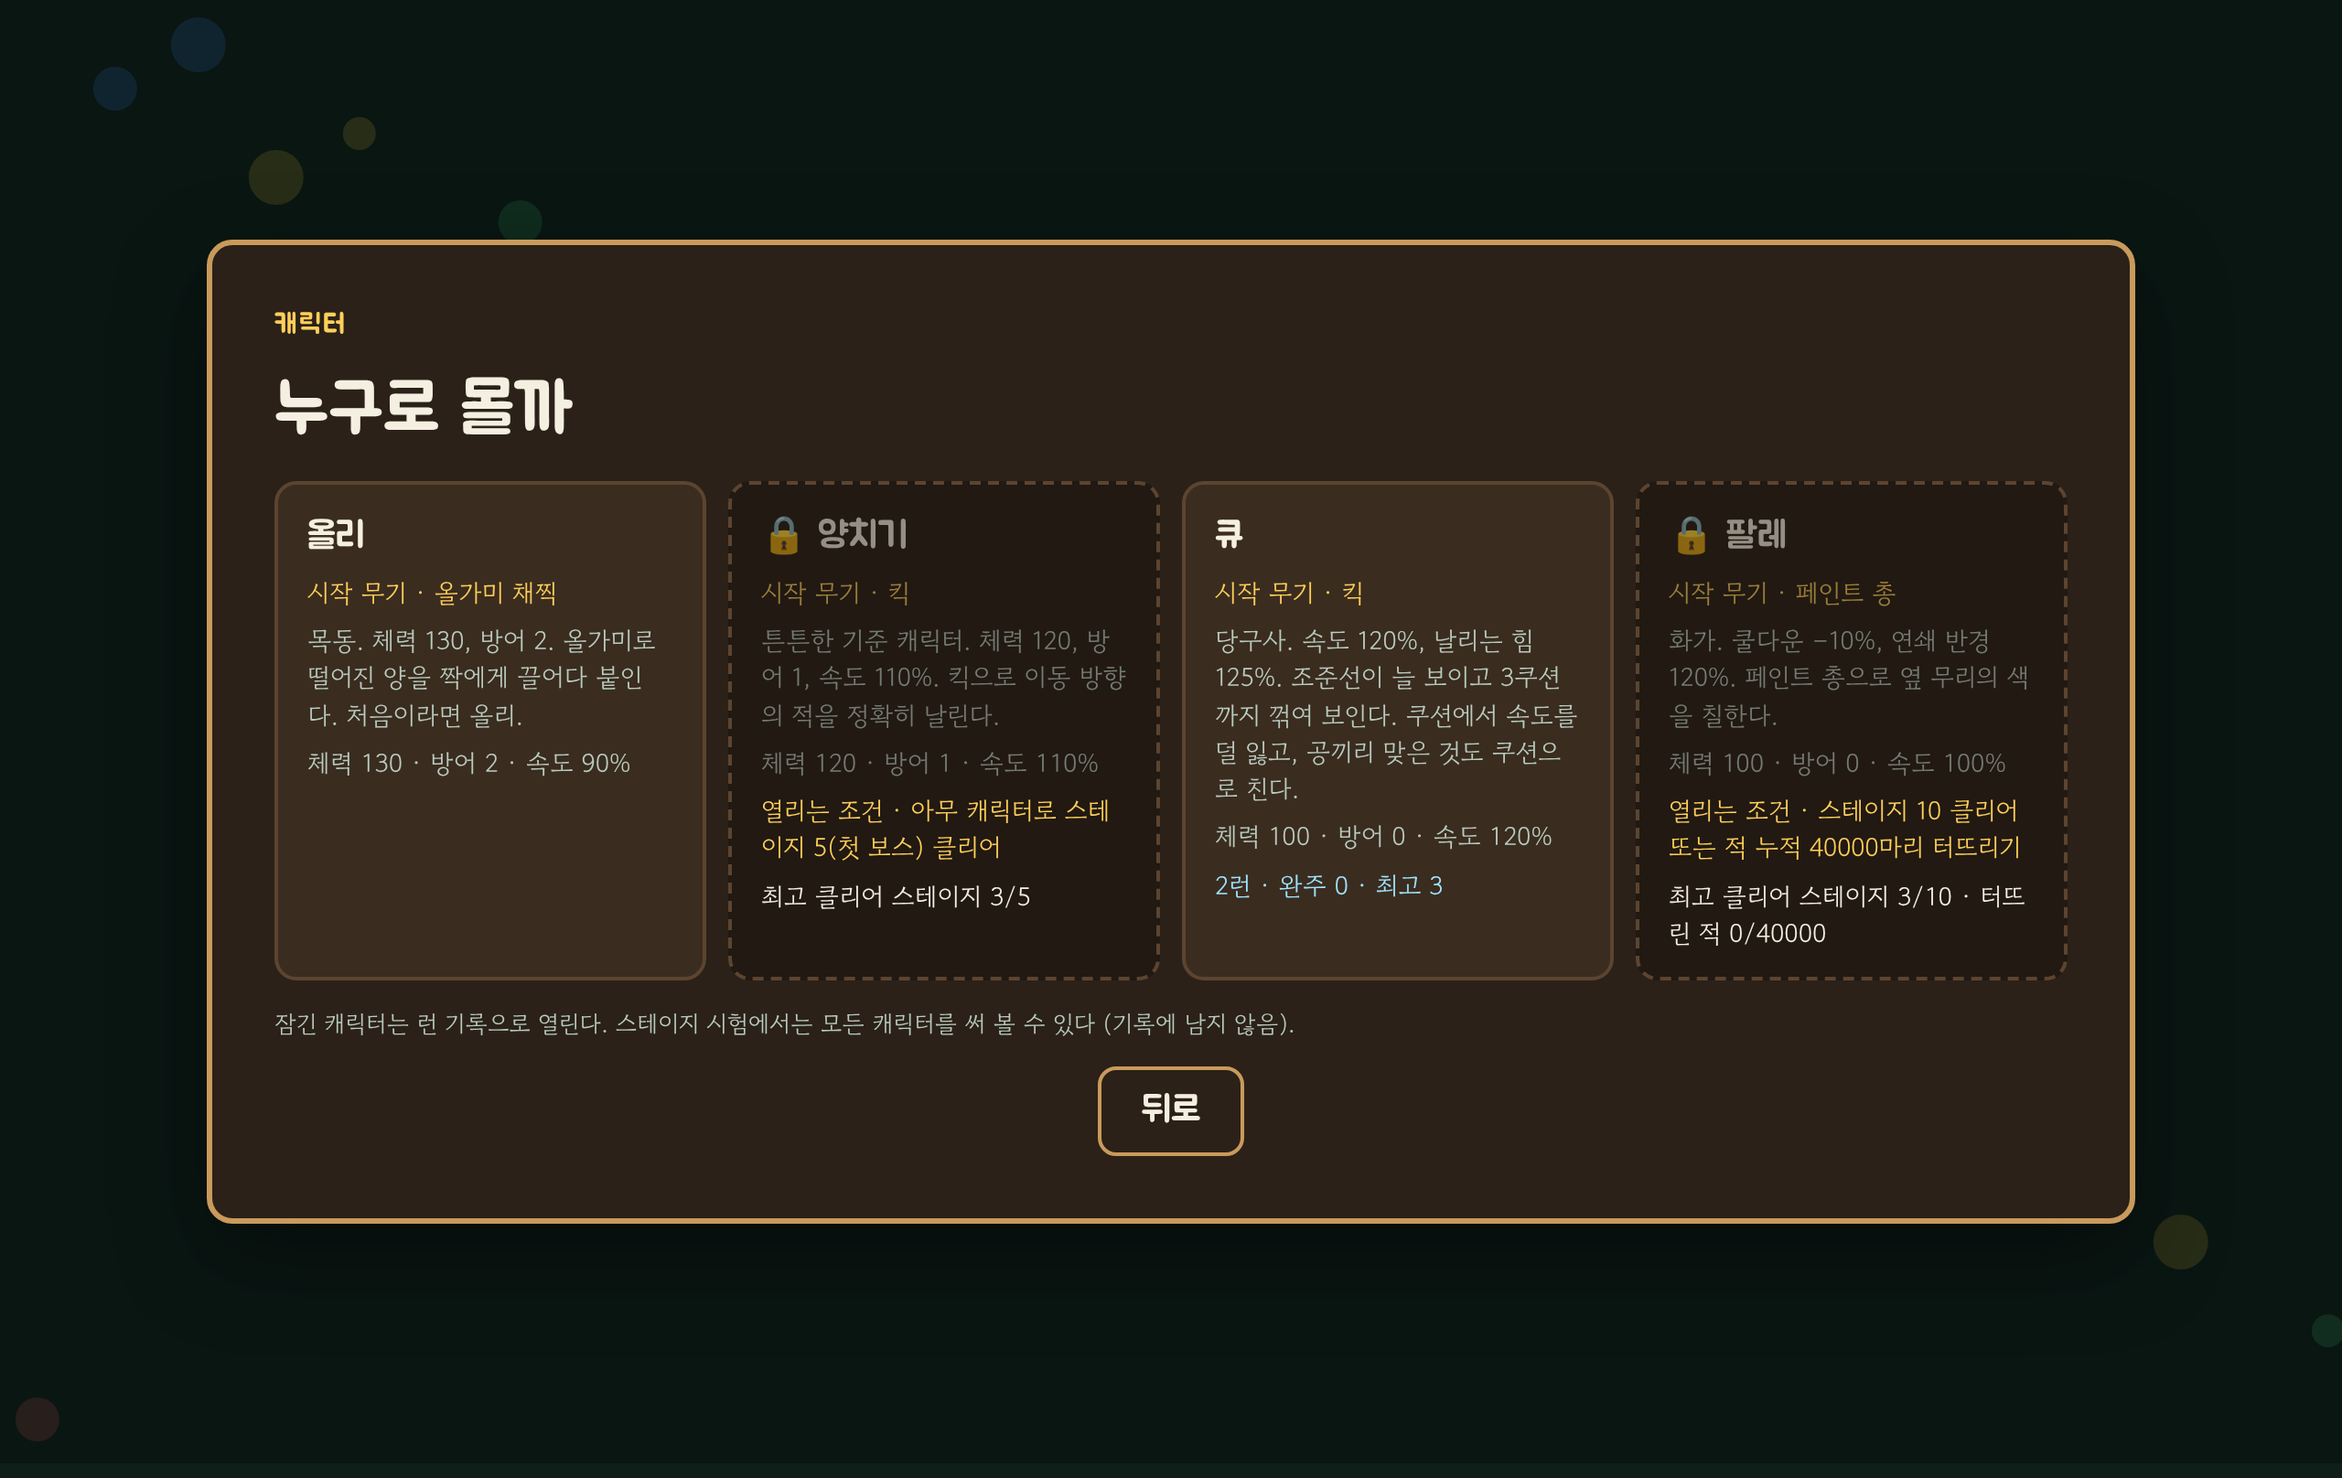
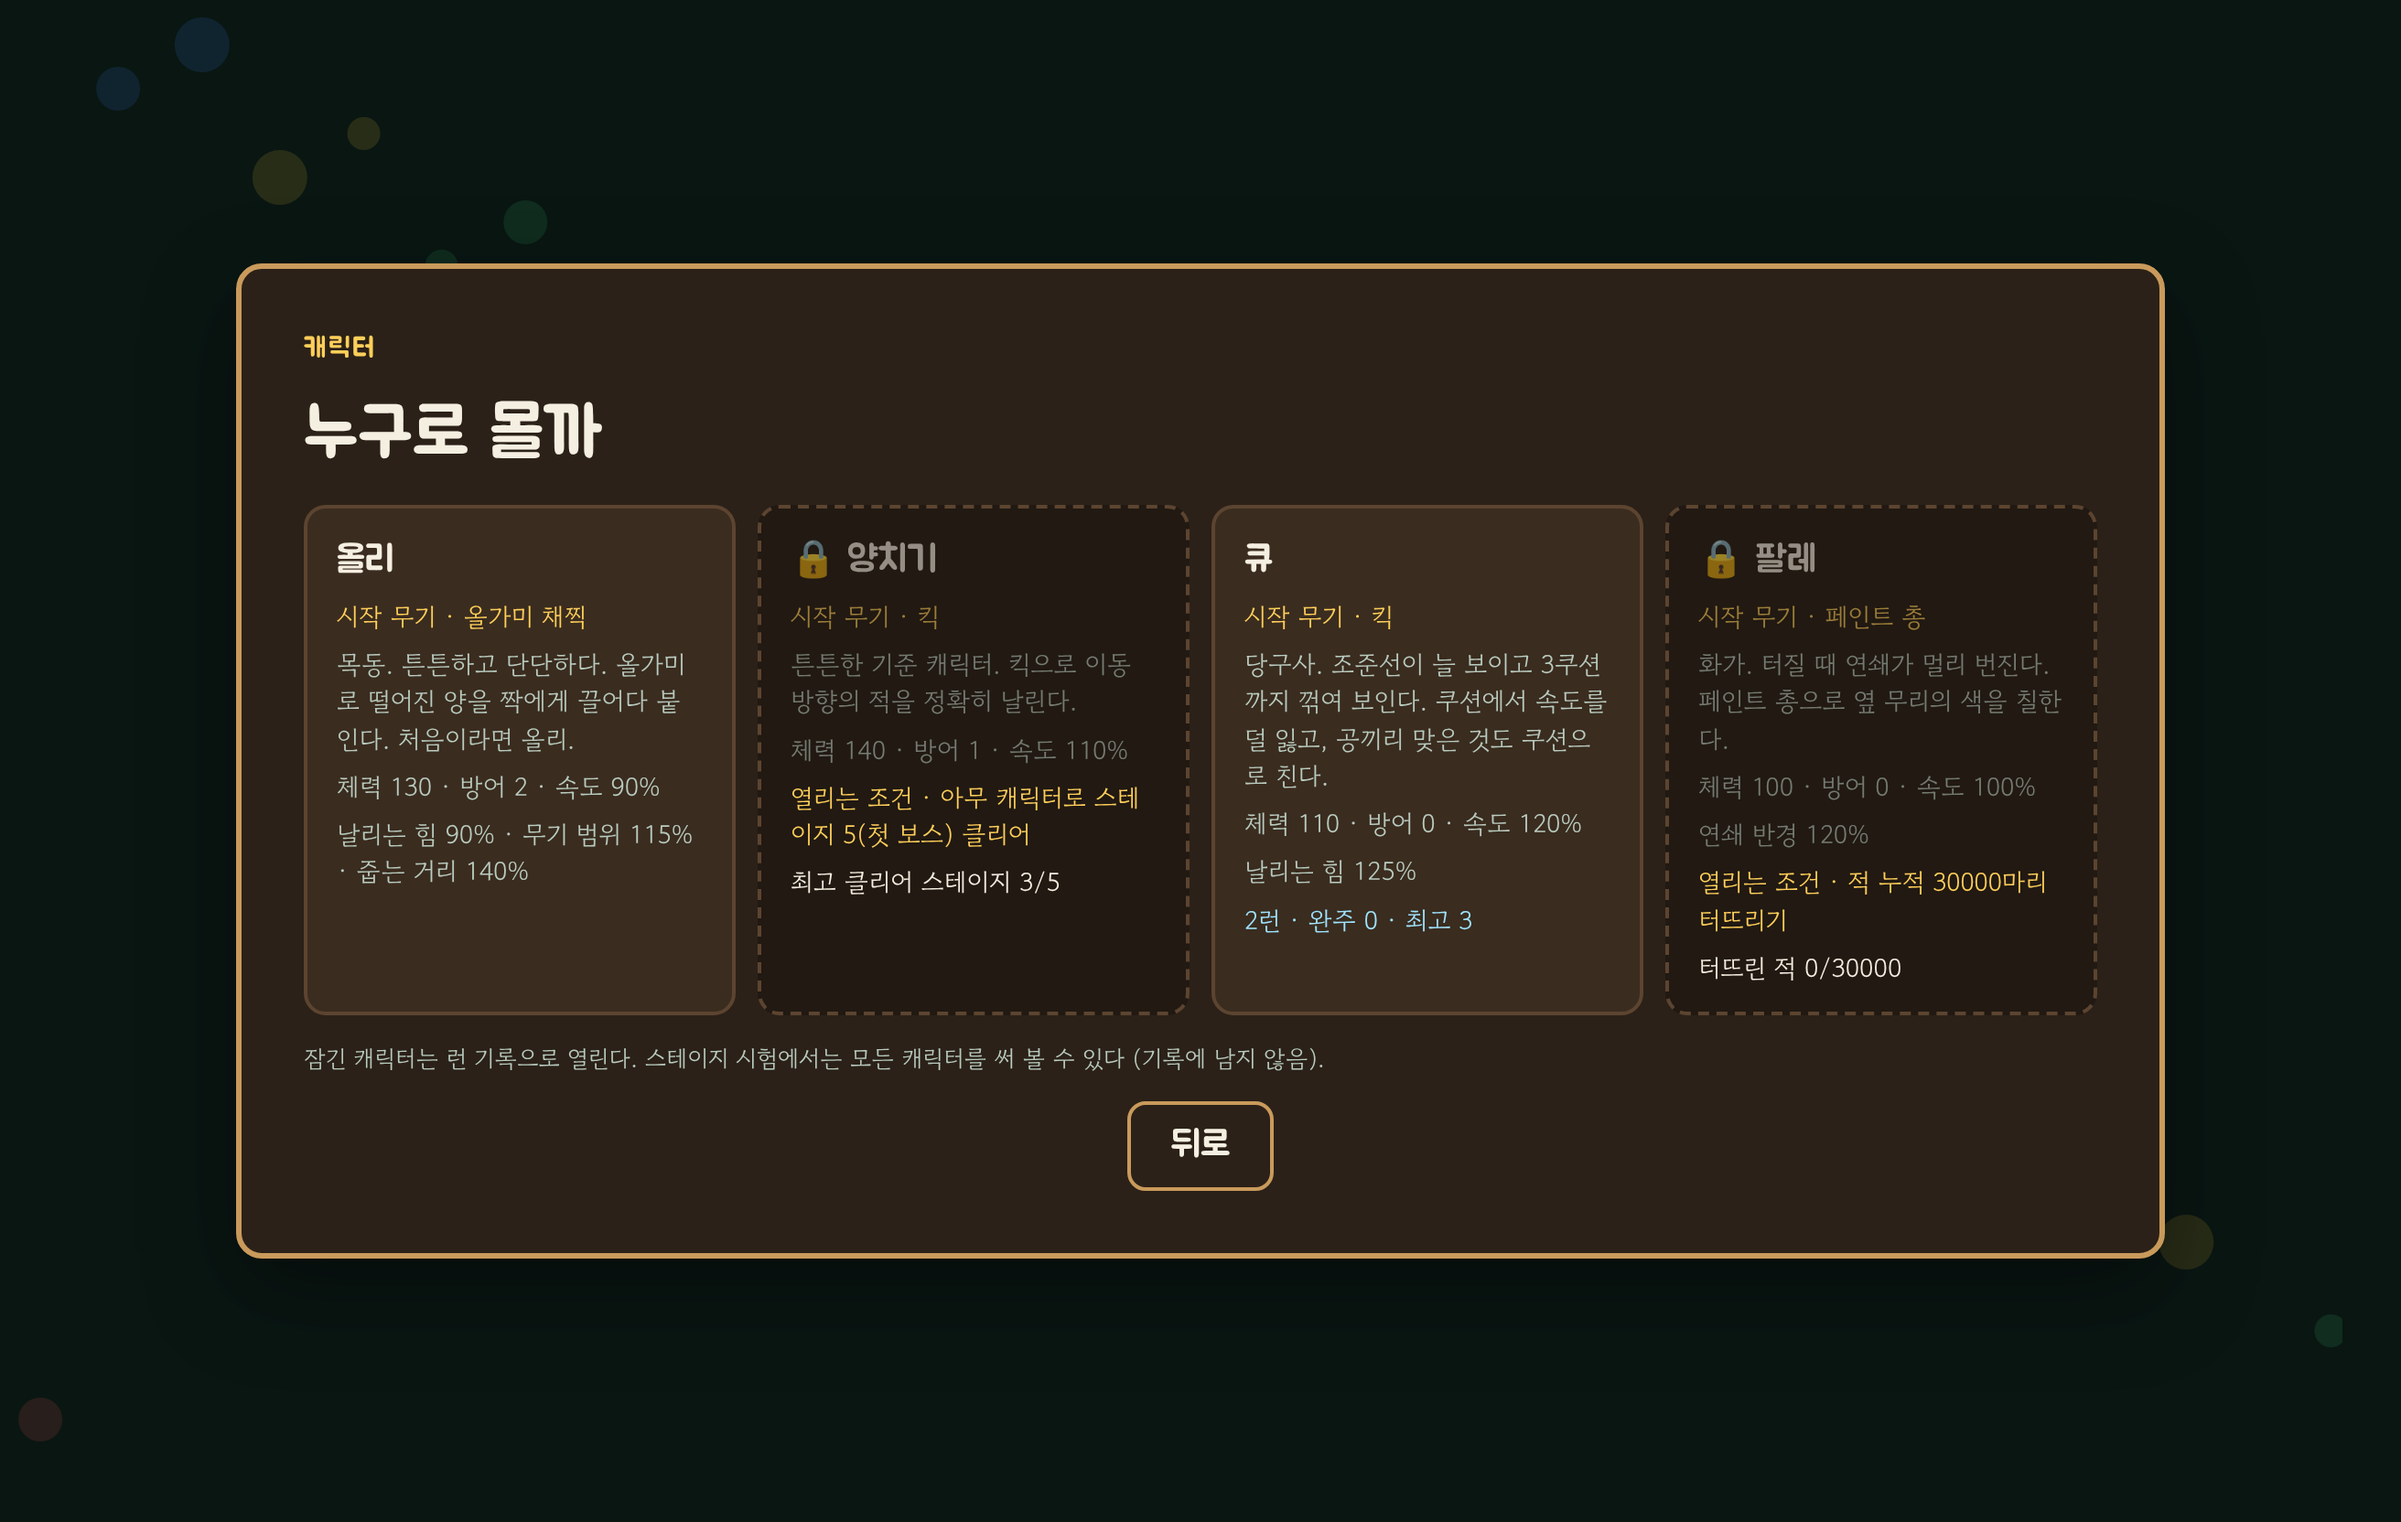
선택 화면: 캐릭터 소개에서 숫자를 빼고 능력치 줄을 데이터로 만듦 (양치기 체력 120·팔레 쿨다운 −10%가 데이터와 어긋나 있었다). 날리는 힘·범위·연쇄 반경 등 기본과 다른 능력치 줄 추가
Claude-Session: https://claude.ai/code/session_01QnSrtjcXvntkjNRADa6aAN

Changed region(s): [[0.0625, 0.1547, 0.9375, 0.8663], [0.5, 0.3094, 0.6875, 0.3713], [0.0, 0.8973, 0.0312, 0.9901]]

diff --git a/web/main.ts b/web/main.ts
@@ -60,12 +60,26 @@ function setBallMode(on: boolean): void {
 
 const CHAR_ORDER = ["olly", "shepherd", "cue", "pale"];
 const CHAR_NAME: Record<string, string> = { shepherd: "양치기", cue: "큐", olly: "올리", pale: "팔레" };
+/** 캐릭터 소개. 숫자는 쓰지 않는다 (능력치 줄이 data/characters.json에서 만든다: 예전에 소개의 체력·쿨다운이 데이터와 어긋났다) */
 const CHAR_BLURB: Record<string, string> = {
-  olly: "목동. 체력 130, 방어 2. 올가미로 떨어진 양을 짝에게 끌어다 붙인다. 처음이라면 올리.",
-  shepherd: "튼튼한 기준 캐릭터. 체력 120, 방어 1, 속도 110%. 킥으로 이동 방향의 적을 정확히 날린다.",
-  cue: "당구사. 속도 120%, 날리는 힘 125%. 조준선이 늘 보이고 3쿠션까지 꺾여 보인다. 쿠션에서 속도를 덜 잃고, 공끼리 맞은 것도 쿠션으로 친다.",
-  pale: "화가. 쿨다운 −10%, 연쇄 반경 120%. 페인트 총으로 옆 무리의 색을 칠한다.",
+  olly: "목동. 튼튼하고 단단하다. 올가미로 떨어진 양을 짝에게 끌어다 붙인다. 처음이라면 올리.",
+  shepherd: "튼튼한 기준 캐릭터. 킥으로 이동 방향의 적을 정확히 날린다.",
+  cue: "당구사. 조준선이 늘 보이고 3쿠션까지 꺾여 보인다. 쿠션에서 속도를 덜 잃고, 공끼리 맞은 것도 쿠션으로 친다.",
+  pale: "화가. 터질 때 연쇄가 멀리 번진다. 페인트 총으로 옆 무리의 색을 칠한다.",
 };
+/** 기본값(1, 쿨다운은 0)과 다른 능력치 (선택 화면의 둘째 능력치 줄) */
+const STAT_NAME: [keyof CharacterDef["stats"], string][] = [
+  ["knock_power", "날리는 힘"],
+  ["area", "무기 범위"],
+  ["chain_radius", "연쇄 반경"],
+  ["pickup", "줍는 거리"],
+  ["direct_dmg", "직격 피해"],
+];
+function statExtras(s: CharacterDef["stats"]): string {
+  const parts = STAT_NAME.filter(([k]) => s[k] !== 1).map(([k, n]) => `${n} ${Math.round(s[k] * 100)}%`);
+  if (s.cooldown !== 0) parts.push(`쿨다운 ${s.cooldown > 0 ? "−" : "+"}${Math.round(Math.abs(s.cooldown) * 100)}%`);
+  return parts.join(" · ");
+}
 
 function el(tag: string, cls = "", text = ""): HTMLElement {
   const e = document.createElement(tag);
@@ -384,6 +398,8 @@ function renderSelect(): void {
       const s = ch.stats;
       b.append(el("strong", "", `${open ? "" : "🔒 "}${CHAR_NAME[id] ?? id}`), el("span", "weapon", `시작 무기 · ${weaponName(ch.startWeapon)}`), el("span", "", CHAR_BLURB[id] ?? ""));
       b.append(el("span", "stats", `체력 ${s.max_hp} · 방어 ${s.armor} · 속도 ${Math.round(s.move_speed * 100)}%`));
+      const extra = statExtras(s);
+      if (extra) b.append(el("span", "stats", extra));
       if (open) {
         const rec = save.characters[id];
         if (rec) b.append(el("span", "rec", `${rec.runs}런 · 완주 ${rec.wins} · 최고 ${rec.bestStage}`));
